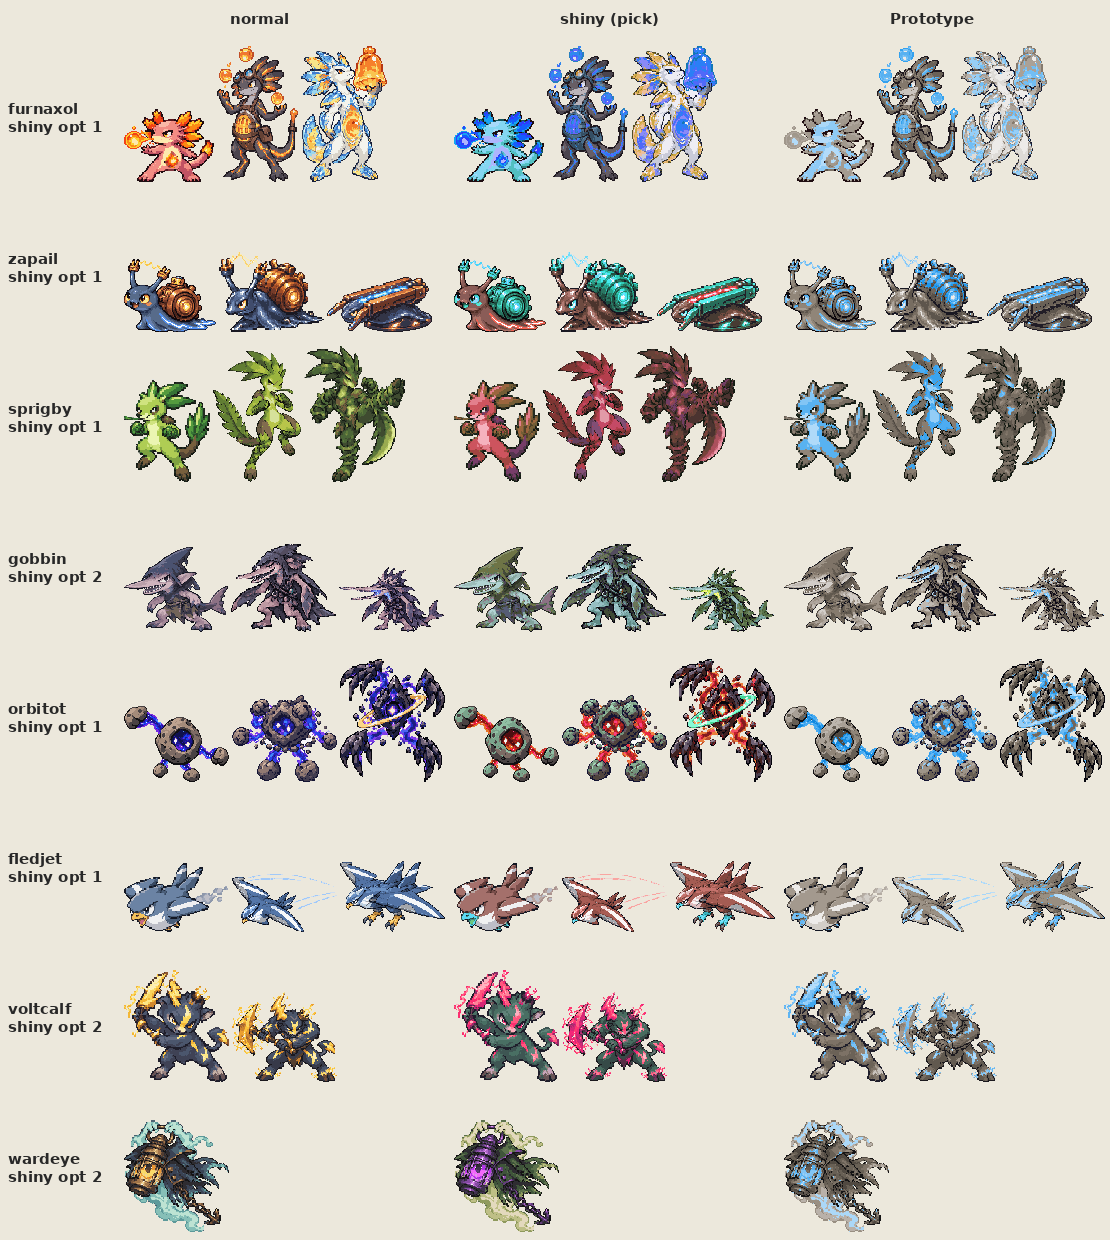
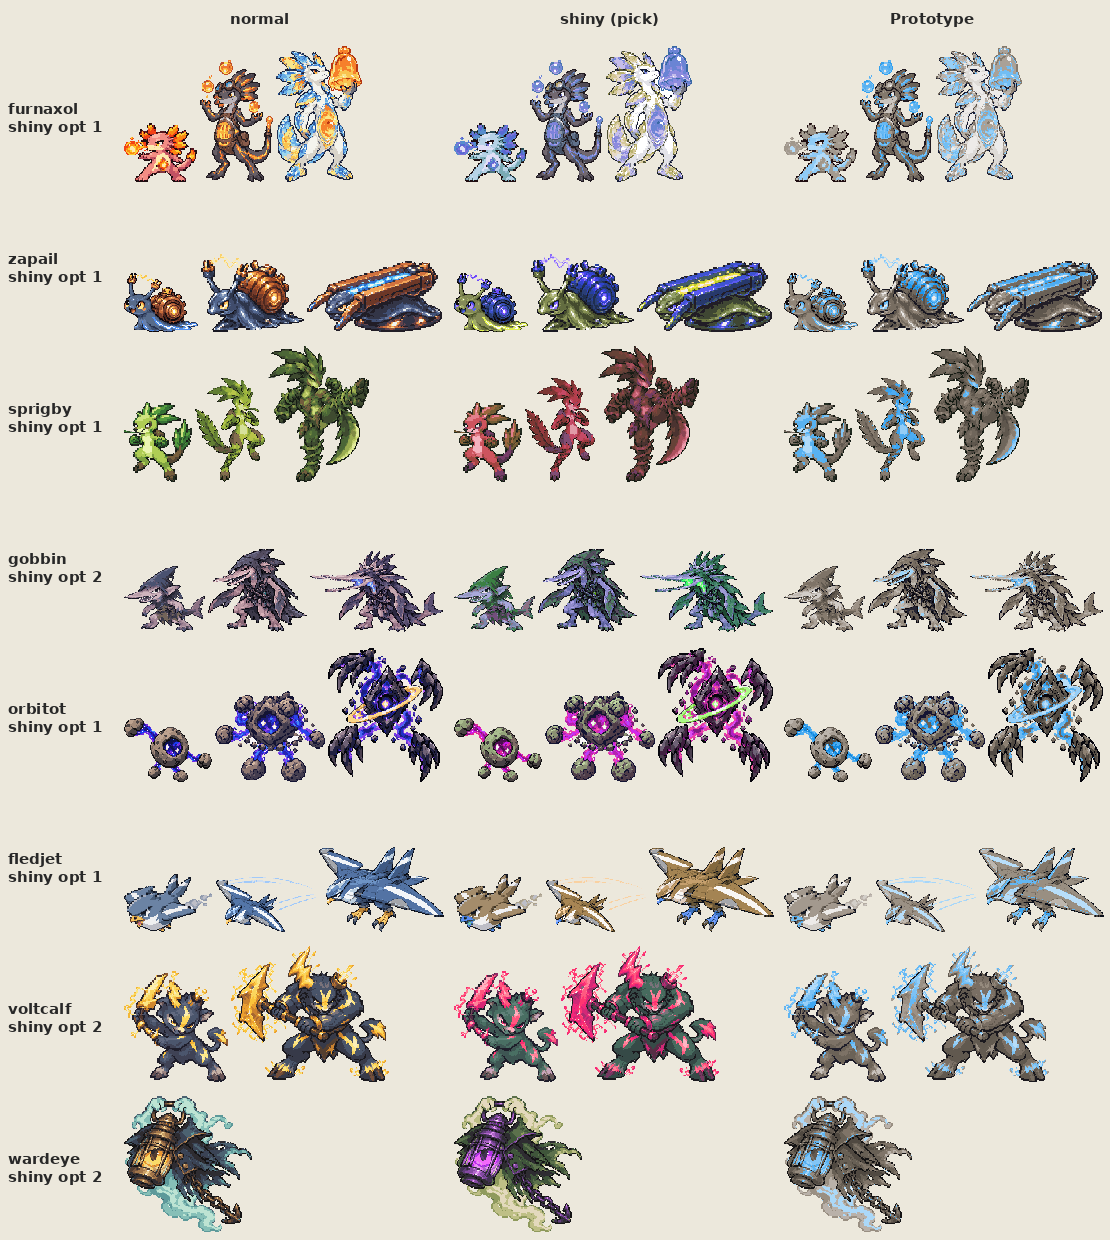
Palette sheets keep each line's stages at their real sizes; Harrowjaw size comparison
Claude-Session: https://claude.ai/code/session_017dBWVrfL9iWDN6K8EV6hvW

diff --git a/art/creatures/wip/ch1/shiny_round2.py b/art/creatures/wip/ch1/shiny_round2.py
@@ -15,10 +15,12 @@ for i, root in enumerate(roots):
     cols = [ims] + [[apply(im, lambda c, o=o: shiny(c, o)) for im in ims] for o in D['lines'][root]['options']]
     y0 = 40 + i * RH
     d.text((8, y0 + 65), root, fill=(40, 40, 40), font=F)
+    # One scale for the whole row, so the stages keep their real sizes against each other.
+    rs = min(1, *[(RH - 14) / im.height for im in ims], (CW - 10) / sum(im.width + 3 for im in ims))
     for j, col in enumerate(cols):
         x = 110 + j * CW + 4
         for im in col:
-            s = min(1, (RH - 14) / im.height, 95 / im.width)
+            s = rs
             im2 = im.resize((max(1, round(im.width * s)), max(1, round(im.height * s))), Image.NEAREST)
             sheet.alpha_composite(im2, (x, y0 + RH - 8 - im2.height)); x += im2.width + 3
 sheet.save(out)

diff --git a/art/creatures/wip/ch1/palette_pitch.py b/art/creatures/wip/ch1/palette_pitch.py
@@ -74,10 +74,11 @@ if __name__ == '__main__':
     for i, (root, k, cols) in enumerate(rows):
         y0 = 40 + i * RH
         d.text((8, y0 + 60), f'{root}\nshiny opt {k}', fill=(40, 40, 40), font=F)
+        rs = min(1, *[(RH - 14) / im.height for im in cols[0]], (CW - 10) / sum(im.width + 3 for im in cols[0]))
         for j, ims in enumerate(cols):
             x = 120 + j * CW + 4
             for im in ims:
-                s = min(1, (RH - 14) / im.height, 105 / im.width)
+                s = rs
                 im2 = im.resize((max(1, round(im.width * s)), max(1, round(im.height * s))), Image.NEAREST)
                 sheet.alpha_composite(im2, (x, y0 + RH - 8 - im2.height)); x += im2.width + 3
     sheet.save(sys.argv[1])
